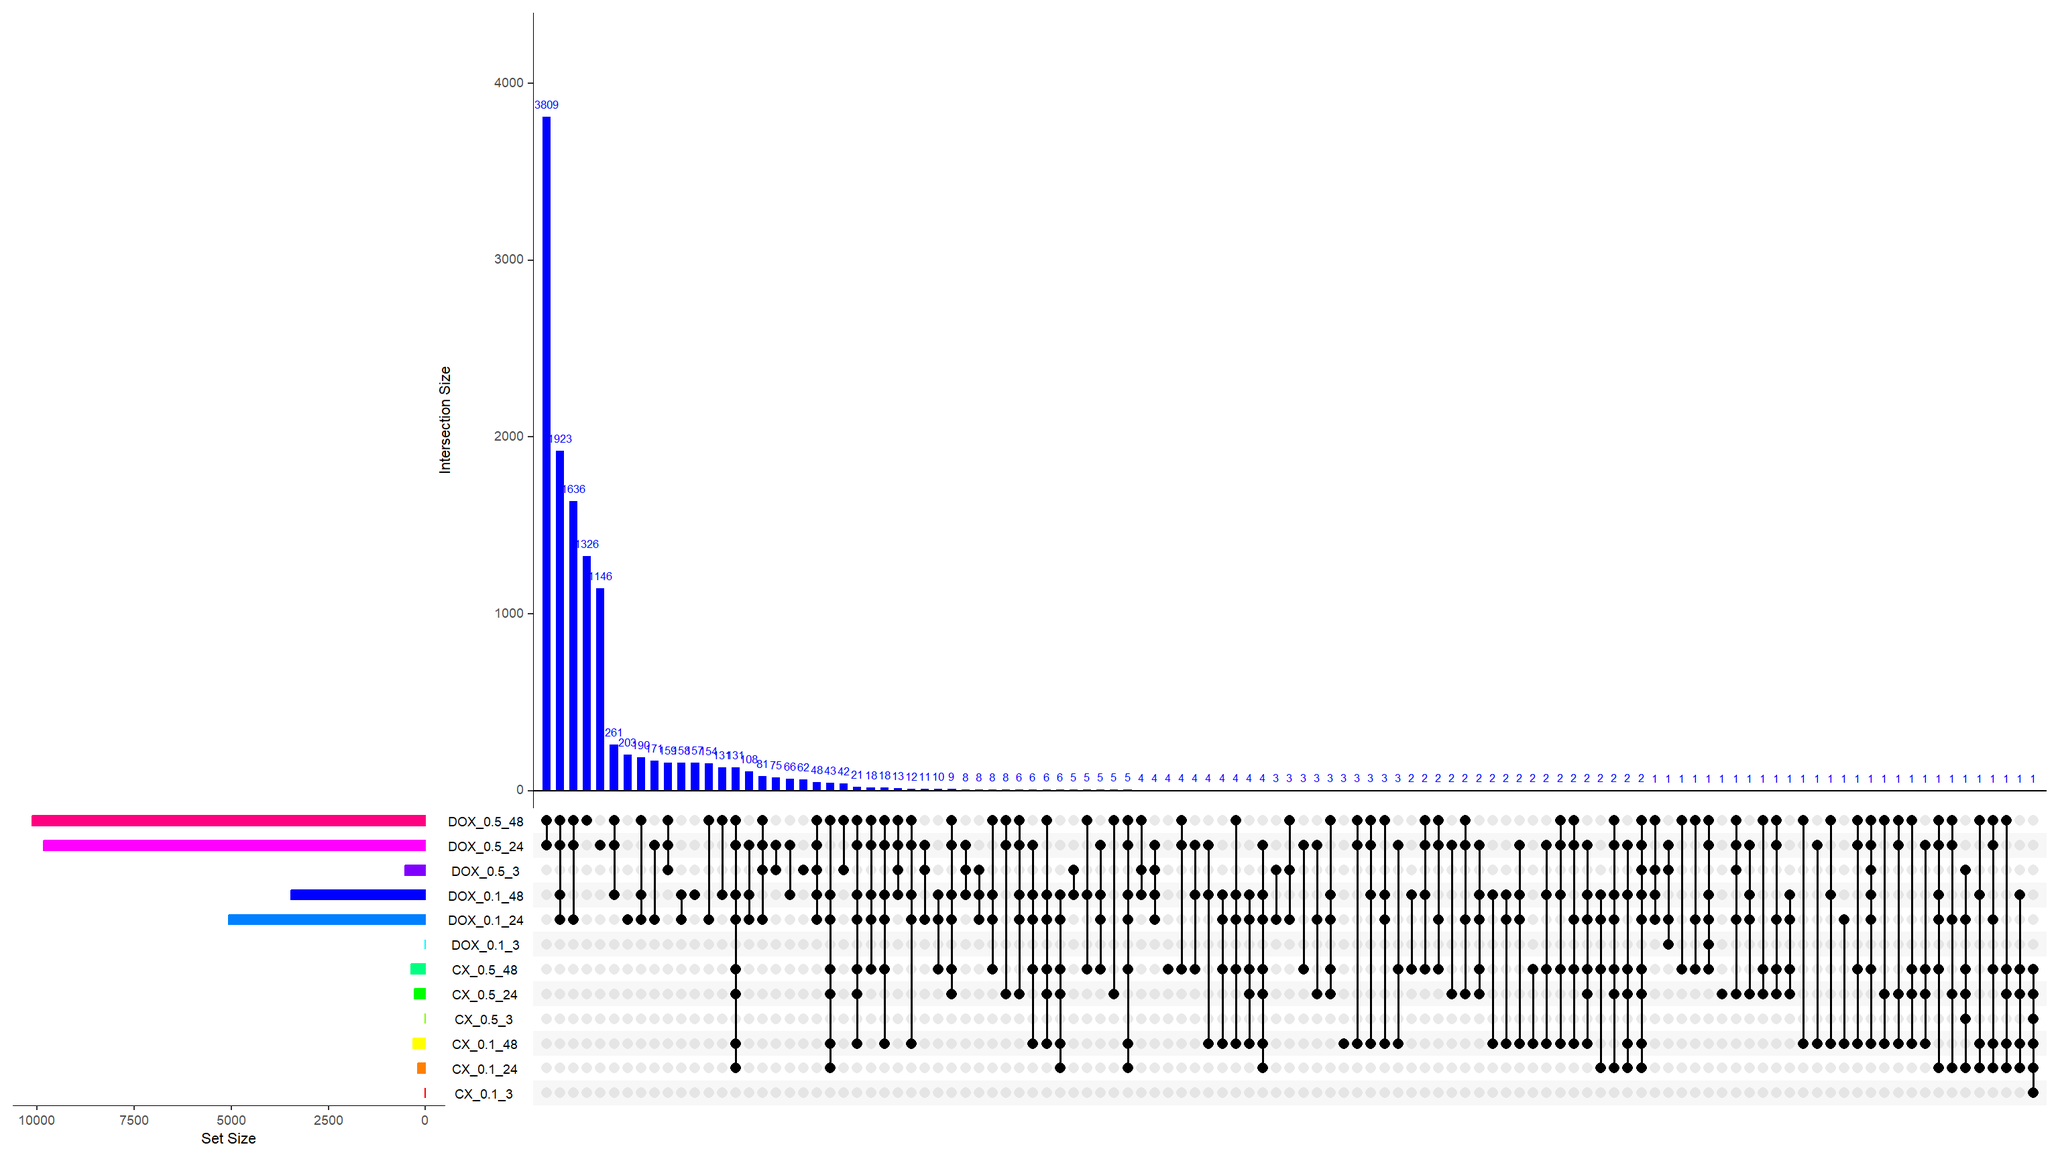
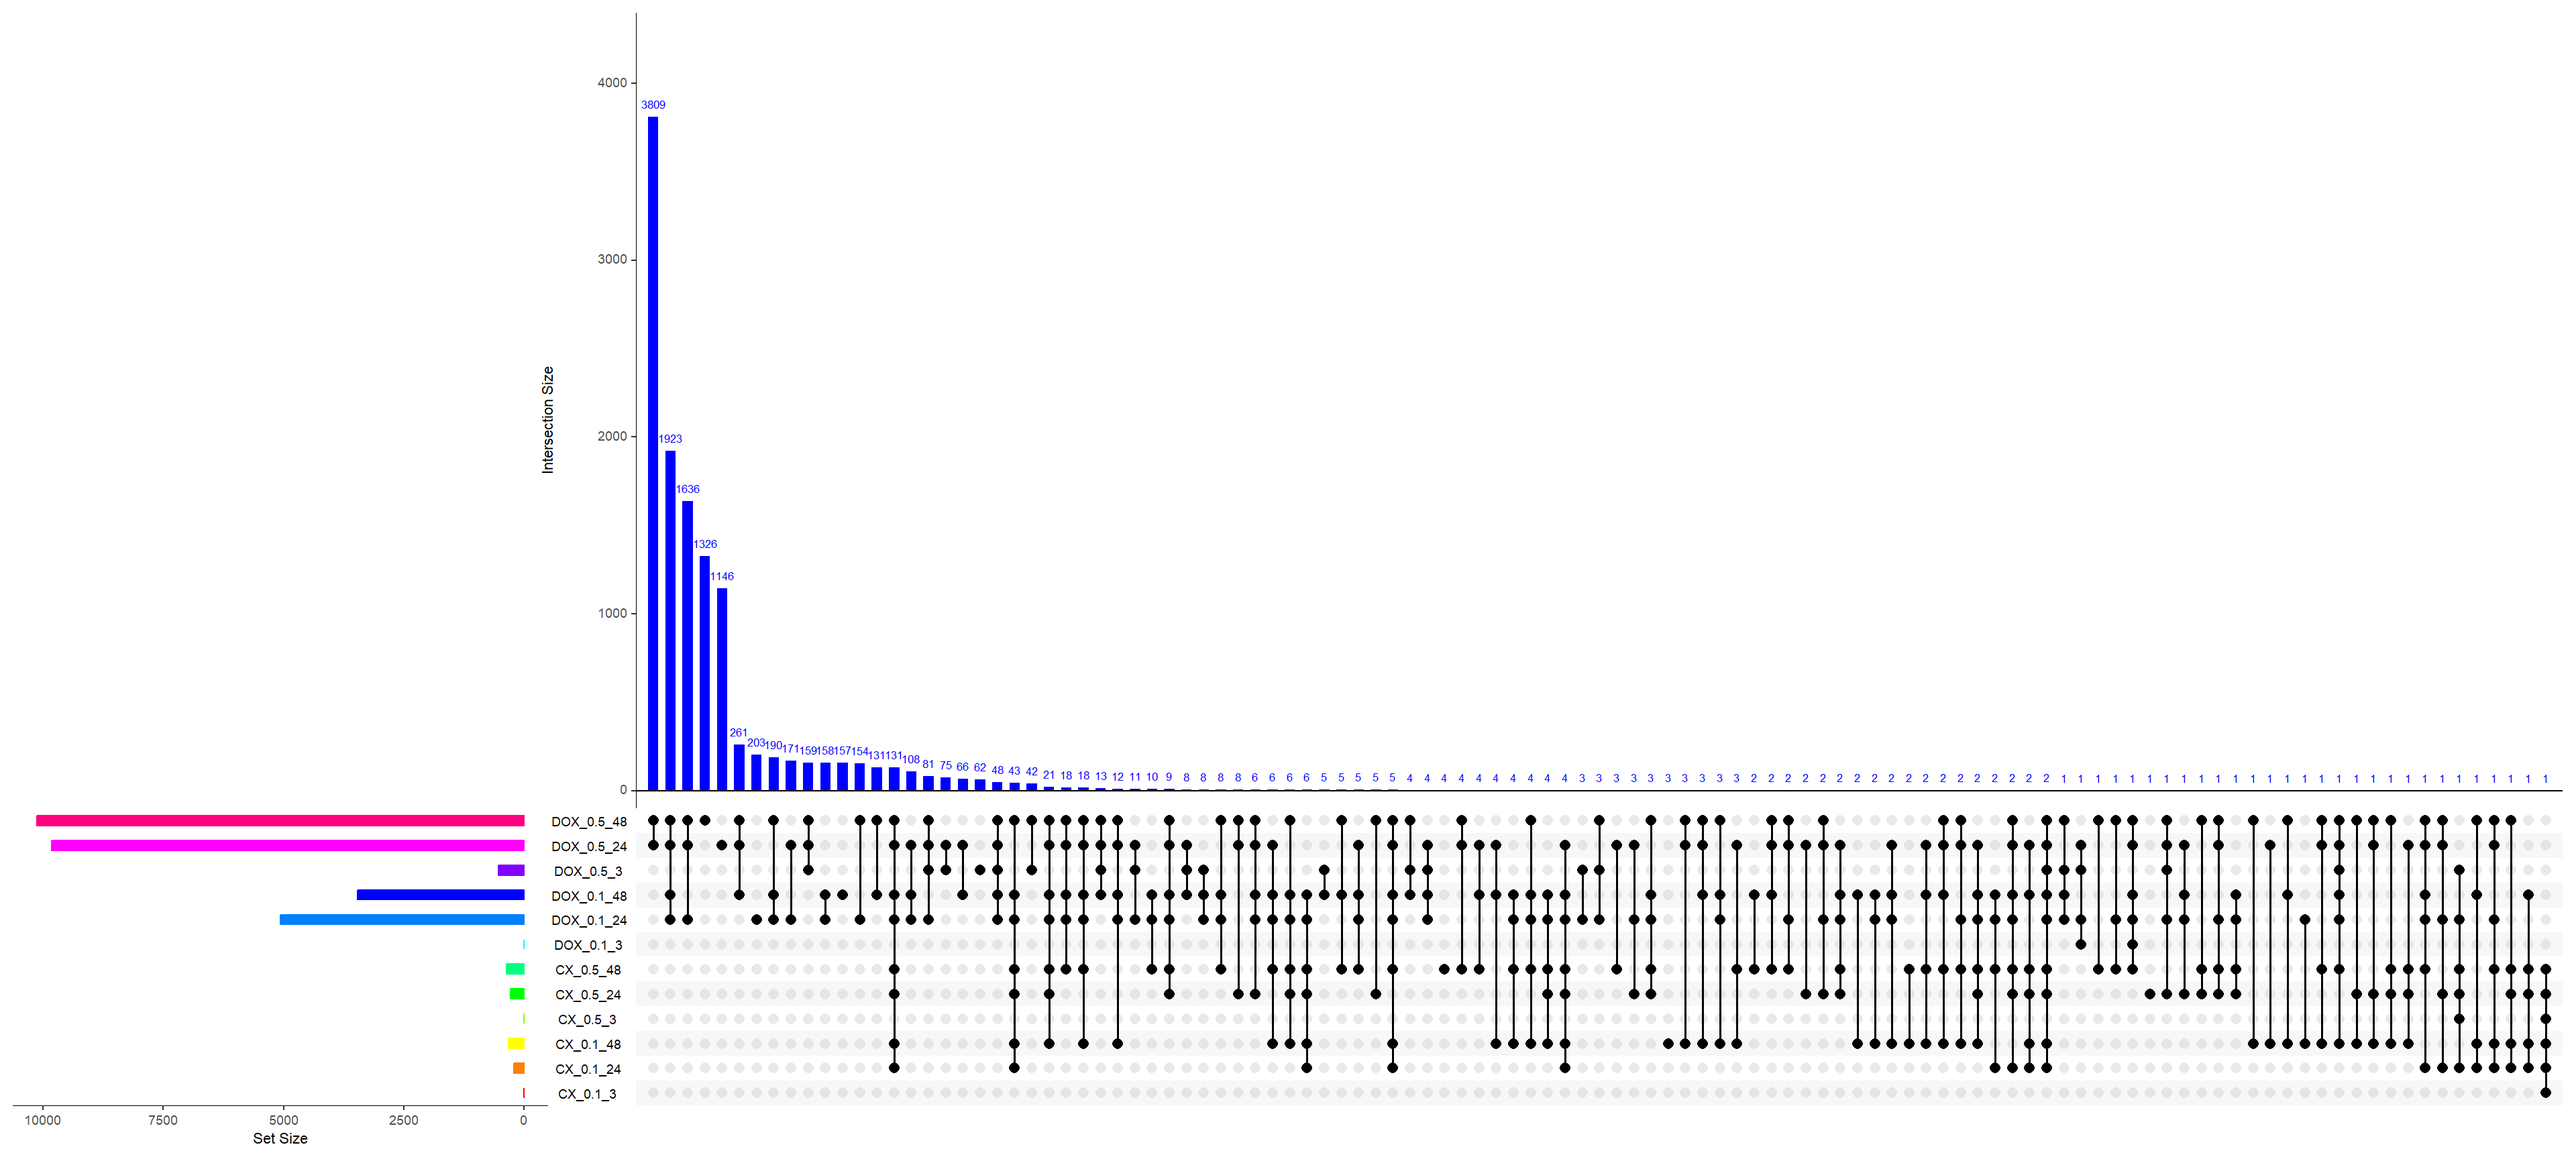
Build site.

Changed region(s): [[0.1875, 0.0625, 1.0, 0.9688], [0.1875, 0.3125, 0.2188, 0.4062], [0.0938, 0.9688, 0.125, 1.0]]

diff --git a/docs/Overlap_DEGs.html b/docs/Overlap_DEGs.html
@@ -509,15 +509,15 @@ project makes it easier to run your code on other machines.</p>
 <div class="panel panel-default">
 <div class="panel-heading">
 <p class="panel-title">
-<a data-toggle="collapse" data-parent="#workflowr-checks" href="#strongRepositoryversionstrongahrefhttpsgithubcomsayanpaul01CX5461Projecttreebef2c813b7e8db5ef938d8ac5011e79827118a95targetblankbef2c81a">
+<a data-toggle="collapse" data-parent="#workflowr-checks" href="#strongRepositoryversionstrongahrefhttpsgithubcomsayanpaul01CX5461Projecttree0c8c19f81315e5ad34517a280f2f87ed65851be8targetblank0c8c19fa">
 <span class="glyphicon glyphicon-ok text-success"
 aria-hidden="true"></span> <strong>Repository version:</strong>
-<a href="https://github.com/sayanpaul01/CX5461_Project/tree/bef2c813b7e8db5ef938d8ac5011e79827118a95" target="_blank">bef2c81</a>
+<a href="https://github.com/sayanpaul01/CX5461_Project/tree/0c8c19f81315e5ad34517a280f2f87ed65851be8" target="_blank">0c8c19f</a>
 </a>
 </p>
 </div>
 <div
[2 lines of base64/hex data omitted]
 class="panel-collapse collapse">
 <div class="panel-body">
 <p>
@@ -527,7 +527,7 @@ reproducibility.
 </p>
 <p>
 The results in this page were generated with repository version
-<a href="https://github.com/sayanpaul01/CX5461_Project/tree/bef2c813b7e8db5ef938d8ac5011e79827118a95" target="_blank">bef2c81</a>.
+<a href="https://github.com/sayanpaul01/CX5461_Project/tree/0c8c19f81315e5ad34517a280f2f87ed65851be8" target="_blank">0c8c19f</a>.
 See the <em>Past versions</em> tab to see a history of the changes made
 to the R Markdown and HTML files.
 </p>
@@ -590,6 +590,40 @@ Message
 </tr>
 </thead>
 <tbody>
+<tr>
+<td>
+Rmd
+</td>
+<td>
+<a href="https://github.com/sayanpaul01/CX5461_Project/blob/0c8c19f81315e5ad34517a280f2f87ed65851be8/analysis/Overlap_DEGs.Rmd" target="_blank">0c8c19f</a>
+</td>
+<td>
+sayanpaul01
+</td>
+<td>
+2025-02-19
+</td>
+<td>
+Added UpSet plots for DEGs across samples, drugs, concentrations, and
+</td>
+</tr>
+<tr>
+<td>
+html
+</td>
+<td>
+<a href="https://rawcdn.githack.com/sayanpaul01/CX5461_Project/0ea6c0c0ea9a55a087085290ad025ad37795834f/docs/Overlap_DEGs.html" target="_blank">0ea6c0c</a>
+</td>
+<td>
+sayanpaul01
+</td>
+<td>
+2025-02-19
+</td>
+<td>
+Build site.
+</td>
+</tr>
 <tr>
 <td>
 Rmd
@@ -1199,6 +1233,43 @@ till lowest size 5)</strong></h2>
   show.numbers = &quot;yes&quot;  # Show intersection size numbers directly
 )</code></pre>
 <p><img src="figure/Overlap_DEGs.Rmd/upset2-1.png" width="1152" style="display: block; margin: auto;" /></p>
+<p>
+<button type="button" class="btn btn-default btn-xs btn-workflowr btn-workflowr-fig" data-toggle="collapse" data-target="#fig-upset2-1">
+Past versions of upset2-1.png
+</button>
+</p>
+<div id="fig-upset2-1" class="collapse">
+<div class="table-responsive">
+<table class="table table-condensed table-hover">
+<thead>
+<tr>
+<th>
+Version
+</th>
+<th>
+Author
+</th>
+<th>
+Date
+</th>
+</tr>
+</thead>
+<tbody>
+<tr>
+<td>
+<a href="https://github.com/sayanpaul01/CX5461_Project/blob/0ea6c0c0ea9a55a087085290ad025ad37795834f/docs/figure/Overlap_DEGs.Rmd/upset2-1.png" target="_blank">0ea6c0c</a>
+</td>
+<td>
+sayanpaul01
+</td>
+<td>
+2025-02-19
+</td>
+</tr>
+</tbody>
+</table>
+</div>
+</div>
 </div>
 <div
 id="upset-plot-of-degs-across-samplesshow-all-intersections-till-last-lowest-size"
@@ -1219,7 +1290,44 @@ till last lowest size)</strong></h2>
   show.numbers = &quot;yes&quot;,  # Show intersection size numbers directly
   nintersects = NA  # Show all intersections including those with lowest size
 )</code></pre>
-<p><img src="figure/Overlap_DEGs.Rmd/upset3-1.png" width="1536" style="display: block; margin: auto;" /></p>
+<p><img src="figure/Overlap_DEGs.Rmd/upset3-1.png" width="1920" style="display: block; margin: auto;" /></p>
+<p>
+<button type="button" class="btn btn-default btn-xs btn-workflowr btn-workflowr-fig" data-toggle="collapse" data-target="#fig-upset3-1">
+Past versions of upset3-1.png
+</button>
+</p>
+<div id="fig-upset3-1" class="collapse">
+<div class="table-responsive">
+<table class="table table-condensed table-hover">
+<thead>
+<tr>
+<th>
+Version
+</th>
+<th>
+Author
+</th>
+<th>
+Date
+</th>
+</tr>
+</thead>
+<tbody>
+<tr>
+<td>
+<a href="https://github.com/sayanpaul01/CX5461_Project/blob/0ea6c0c0ea9a55a087085290ad025ad37795834f/docs/figure/Overlap_DEGs.Rmd/upset3-1.png" target="_blank">0ea6c0c</a>
+</td>
+<td>
+sayanpaul01
+</td>
+<td>
+2025-02-19
+</td>
+</tr>
+</tbody>
+</table>
+</div>
+</div>
 </div>
 <div id="drug-specific-de-genes" class="section level2">
 <h2><strong>📌 Drug Specific DE genes</strong></h2>
@@ -1245,6 +1353,43 @@ upset(
   sets.bar.color = c(&quot;blue&quot;, &quot;red&quot;)
 )</code></pre>
 <p><img src="figure/Overlap_DEGs.Rmd/upset4-1.png" width="672" style="display: block; margin: auto;" /></p>
+<p>
+<button type="button" class="btn btn-default btn-xs btn-workflowr btn-workflowr-fig" data-toggle="collapse" data-target="#fig-upset4-1">
+Past versions of upset4-1.png
+</button>
+</p>
+<div id="fig-upset4-1" class="collapse">
+<div class="table-responsive">
+<table class="table table-condensed table-hover">
+<thead>
+<tr>
+<th>
+Version
+</th>
+<th>
+Author
+</th>
+<th>
+Date
+</th>
+</tr>
+</thead>
+<tbody>
+<tr>
+<td>
+<a href="https://github.com/sayanpaul01/CX5461_Project/blob/0ea6c0c0ea9a55a087085290ad025ad37795834f/docs/figure/Overlap_DEGs.Rmd/upset4-1.png" target="_blank">0ea6c0c</a>
+</td>
+<td>
+sayanpaul01
+</td>
+<td>
+2025-02-19
+</td>
+</tr>
+</tbody>
+</table>
+</div>
+</div>
 </div>
 <div id="conc.-specific-de-genes" class="section level2">
 <h2><strong>📌 Conc. Specific DE genes</strong></h2>
@@ -1270,6 +1415,43 @@ upset(
   keep.order = TRUE
 )</code></pre>
 <p><img src="figure/Overlap_DEGs.Rmd/upset5-1.png" width="672" style="display: block; margin: auto;" /></p>
+<p>
+<button type="button" class="btn btn-default btn-xs btn-workflowr btn-workflowr-fig" data-toggle="collapse" data-target="#fig-upset5-1">
+Past versions of upset5-1.png
+</button>
+</p>
+<div id="fig-upset5-1" class="collapse">
+<div class="table-responsive">
+<table class="table table-condensed table-hover">
+<thead>
+<tr>
+<th>
+Version
+</th>
+<th>
+Author
+</th>
+<th>
+Date
+</th>
+</tr>
+</thead>
+<tbody>
+<tr>
+<td>
+<a href="https://github.com/sayanpaul01/CX5461_Project/blob/0ea6c0c0ea9a55a087085290ad025ad37795834f/docs/figure/Overlap_DEGs.Rmd/upset5-1.png" target="_blank">0ea6c0c</a>
+</td>
+<td>
+sayanpaul01
+</td>
+<td>
+2025-02-19
+</td>
+</tr>
+</tbody>
+</table>
+</div>
+</div>
 </div>
 <div id="timepoints-specific-de-genes" class="section level2">
 <h2><strong>📌 Timepoints Specific DE genes</strong></h2>
@@ -1296,6 +1478,43 @@ upset(
   keep.order = TRUE
 )</code></pre>
 <p><img src="figure/Overlap_DEGs.Rmd/upset6-1.png" width="672" style="display: block; margin: auto;" /></p>
+<p>
+<button type="button" class="btn btn-default btn-xs btn-workflowr btn-workflowr-fig" data-toggle="collapse" data-target="#fig-upset6-1">
+Past versions of upset6-1.png
+</button>
+</p>
+<div id="fig-upset6-1" class="collapse">
+<div class="table-responsive">
+<table class="table table-condensed table-hover">
+<thead>
+<tr>
+<th>
+Version
+</th>
+<th>
+Author
+</th>
+<th>
+Date
+</th>
+</tr>
+</thead>
+<tbody>
+<tr>
+<td>
+<a href="https://github.com/sayanpaul01/CX5461_Project/blob/0ea6c0c0ea9a55a087085290ad025ad37795834f/docs/figure/Overlap_DEGs.Rmd/upset6-1.png" target="_blank">0ea6c0c</a>
+</td>
+<td>
+sayanpaul01
+</td>
+<td>
+2025-02-19
+</td>
+</tr>
+</tbody>
+</table>
+</div>
+</div>
 <br>
 <p>
 <button type="button" class="btn btn-default btn-workflowr btn-workflowr-sessioninfo" data-toggle="collapse" data-target="#workflowr-sessioninfo" style="display: block;">
